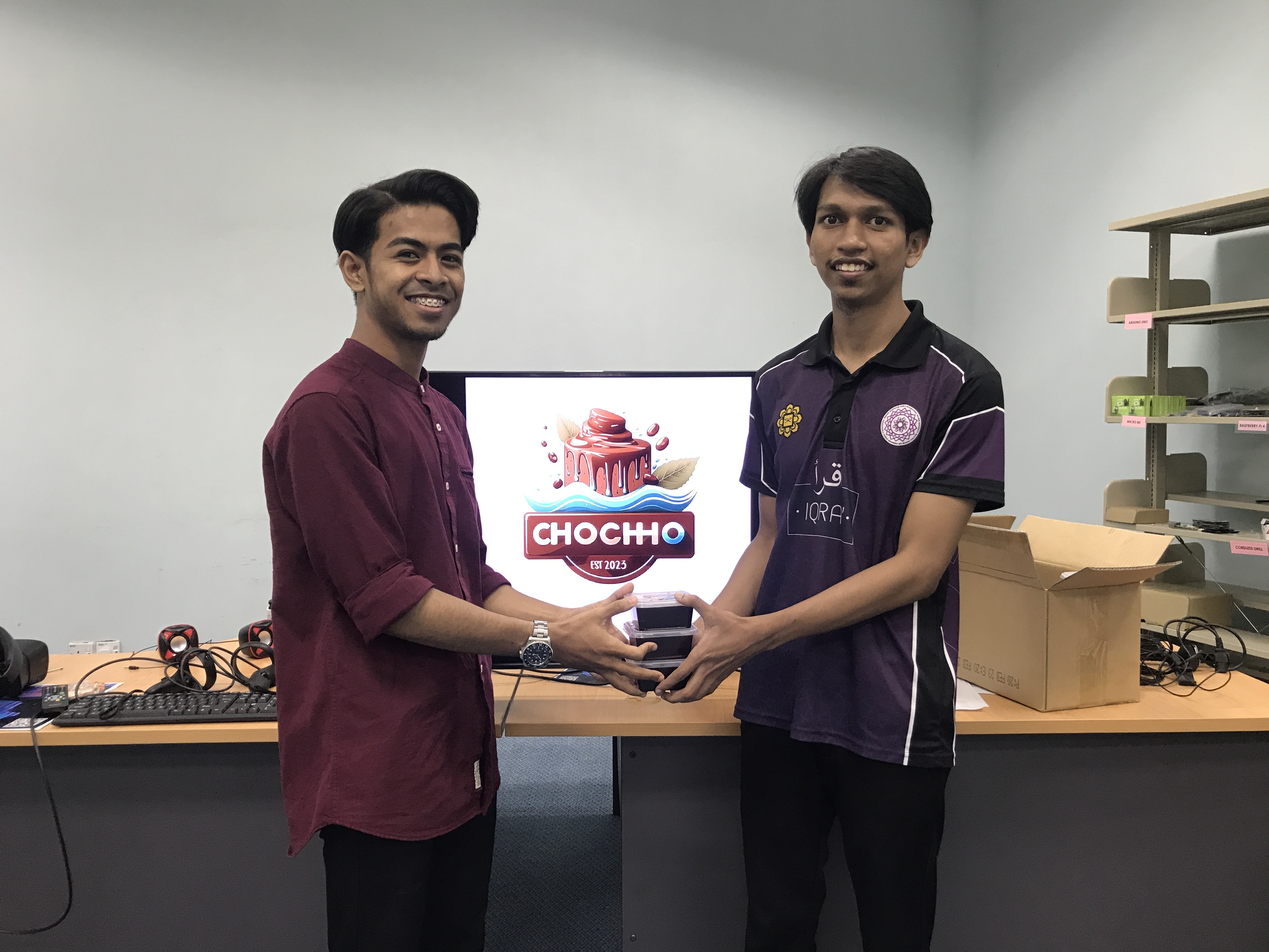
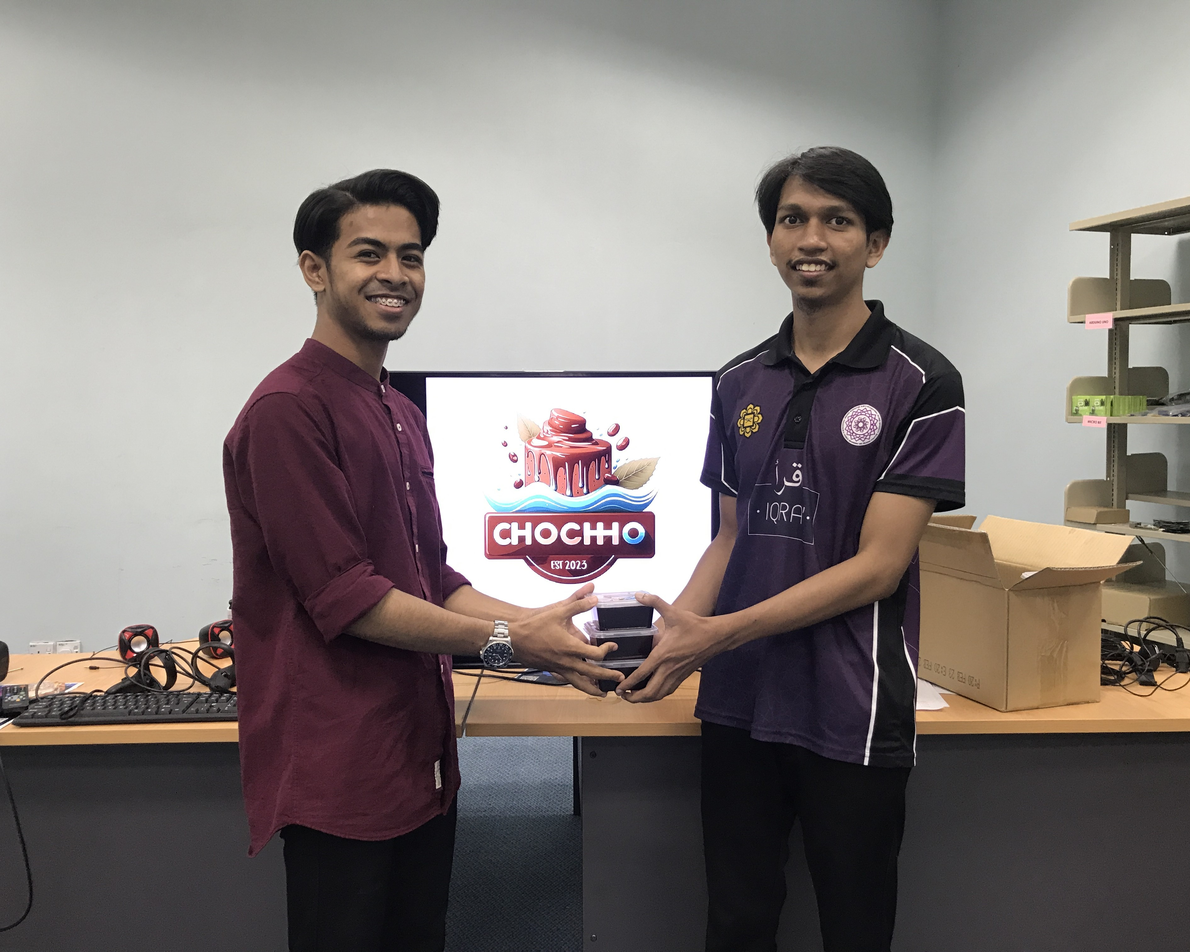
:bento: Add more customer photos

Changed region(s): [[0.0, 0.1554, 1.0, 1.0], [0.6243, 0.746, 0.6556, 0.7771], [0.3122, 0.1554, 0.3434, 0.1865]]

diff --git a/site/pages/customers.tsx b/site/pages/customers.tsx
@@ -4,9 +4,24 @@ import { Container, Text } from '@components/ui'
 
 const images = [
   '/assets/customers/IMG_8672.JPG',
-  '/assets/customers/IMG_8685.JPG',
-  '/assets/customers/IMG_8688.JPG',
   '/assets/customers/IMG_8679.JPG',
+  '/assets/customers/IMG_8685.JPG',
+  '/assets/customers/IMG20230407213125.jpg',
+  '/assets/customers/IMG20230407214949.jpg',
+  '/assets/customers/IMG20230407221029.jpg',
+  '/assets/customers/IMG20230407225328.jpg',
+  '/assets/customers/IMG_20230330_201526.jpg',
+  '/assets/customers/IMG_20230330_220548.jpg',
+  '/assets/customers/IMG_5113.jpg',
+  '/assets/customers/IMG_5115.jpg',
+  '/assets/customers/IMG_5117.jpg',
+  '/assets/customers/IMG_5120.jpg',
+  '/assets/customers/IMG_5123.jpg',
+  '/assets/customers/IMG_5124.jpg',
+  '/assets/customers/IMG_5133.jpg',
+  '/assets/customers/photo_2023-04-15_00-14-05.jpg',
+  '/assets/customers/photo_2023-04-15_00-14-06.jpg',
+  '/assets/customers/photo_2023-04-15_00-14-07.jpg',
 ];
 export default function About() {
   return (
